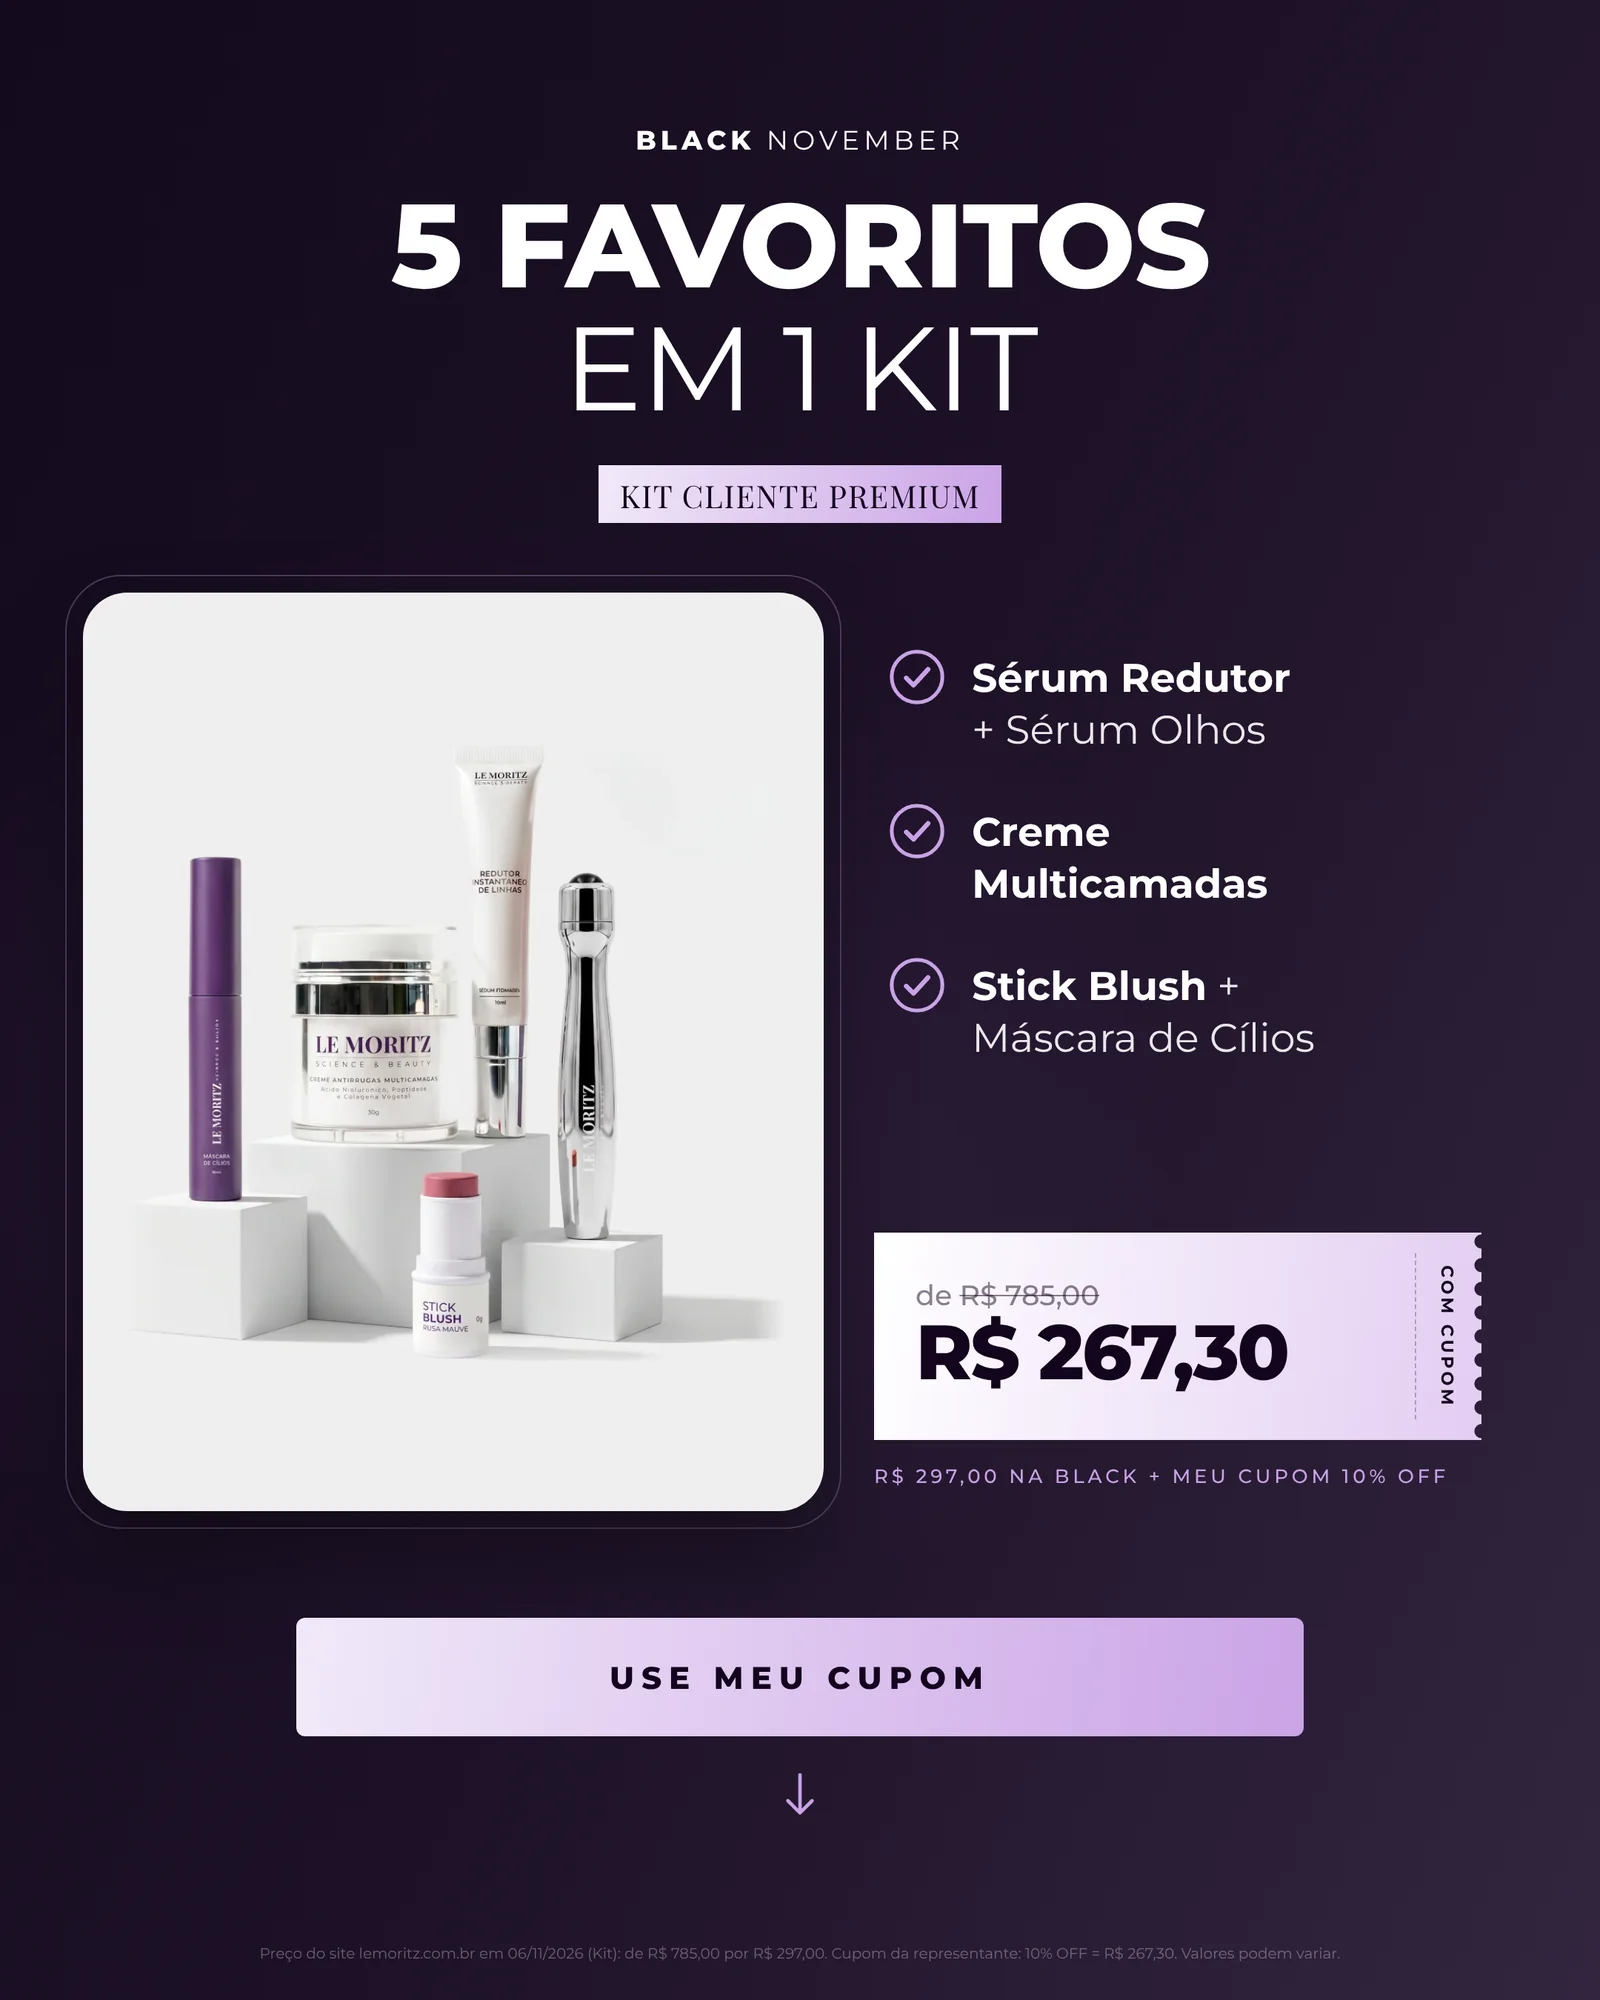
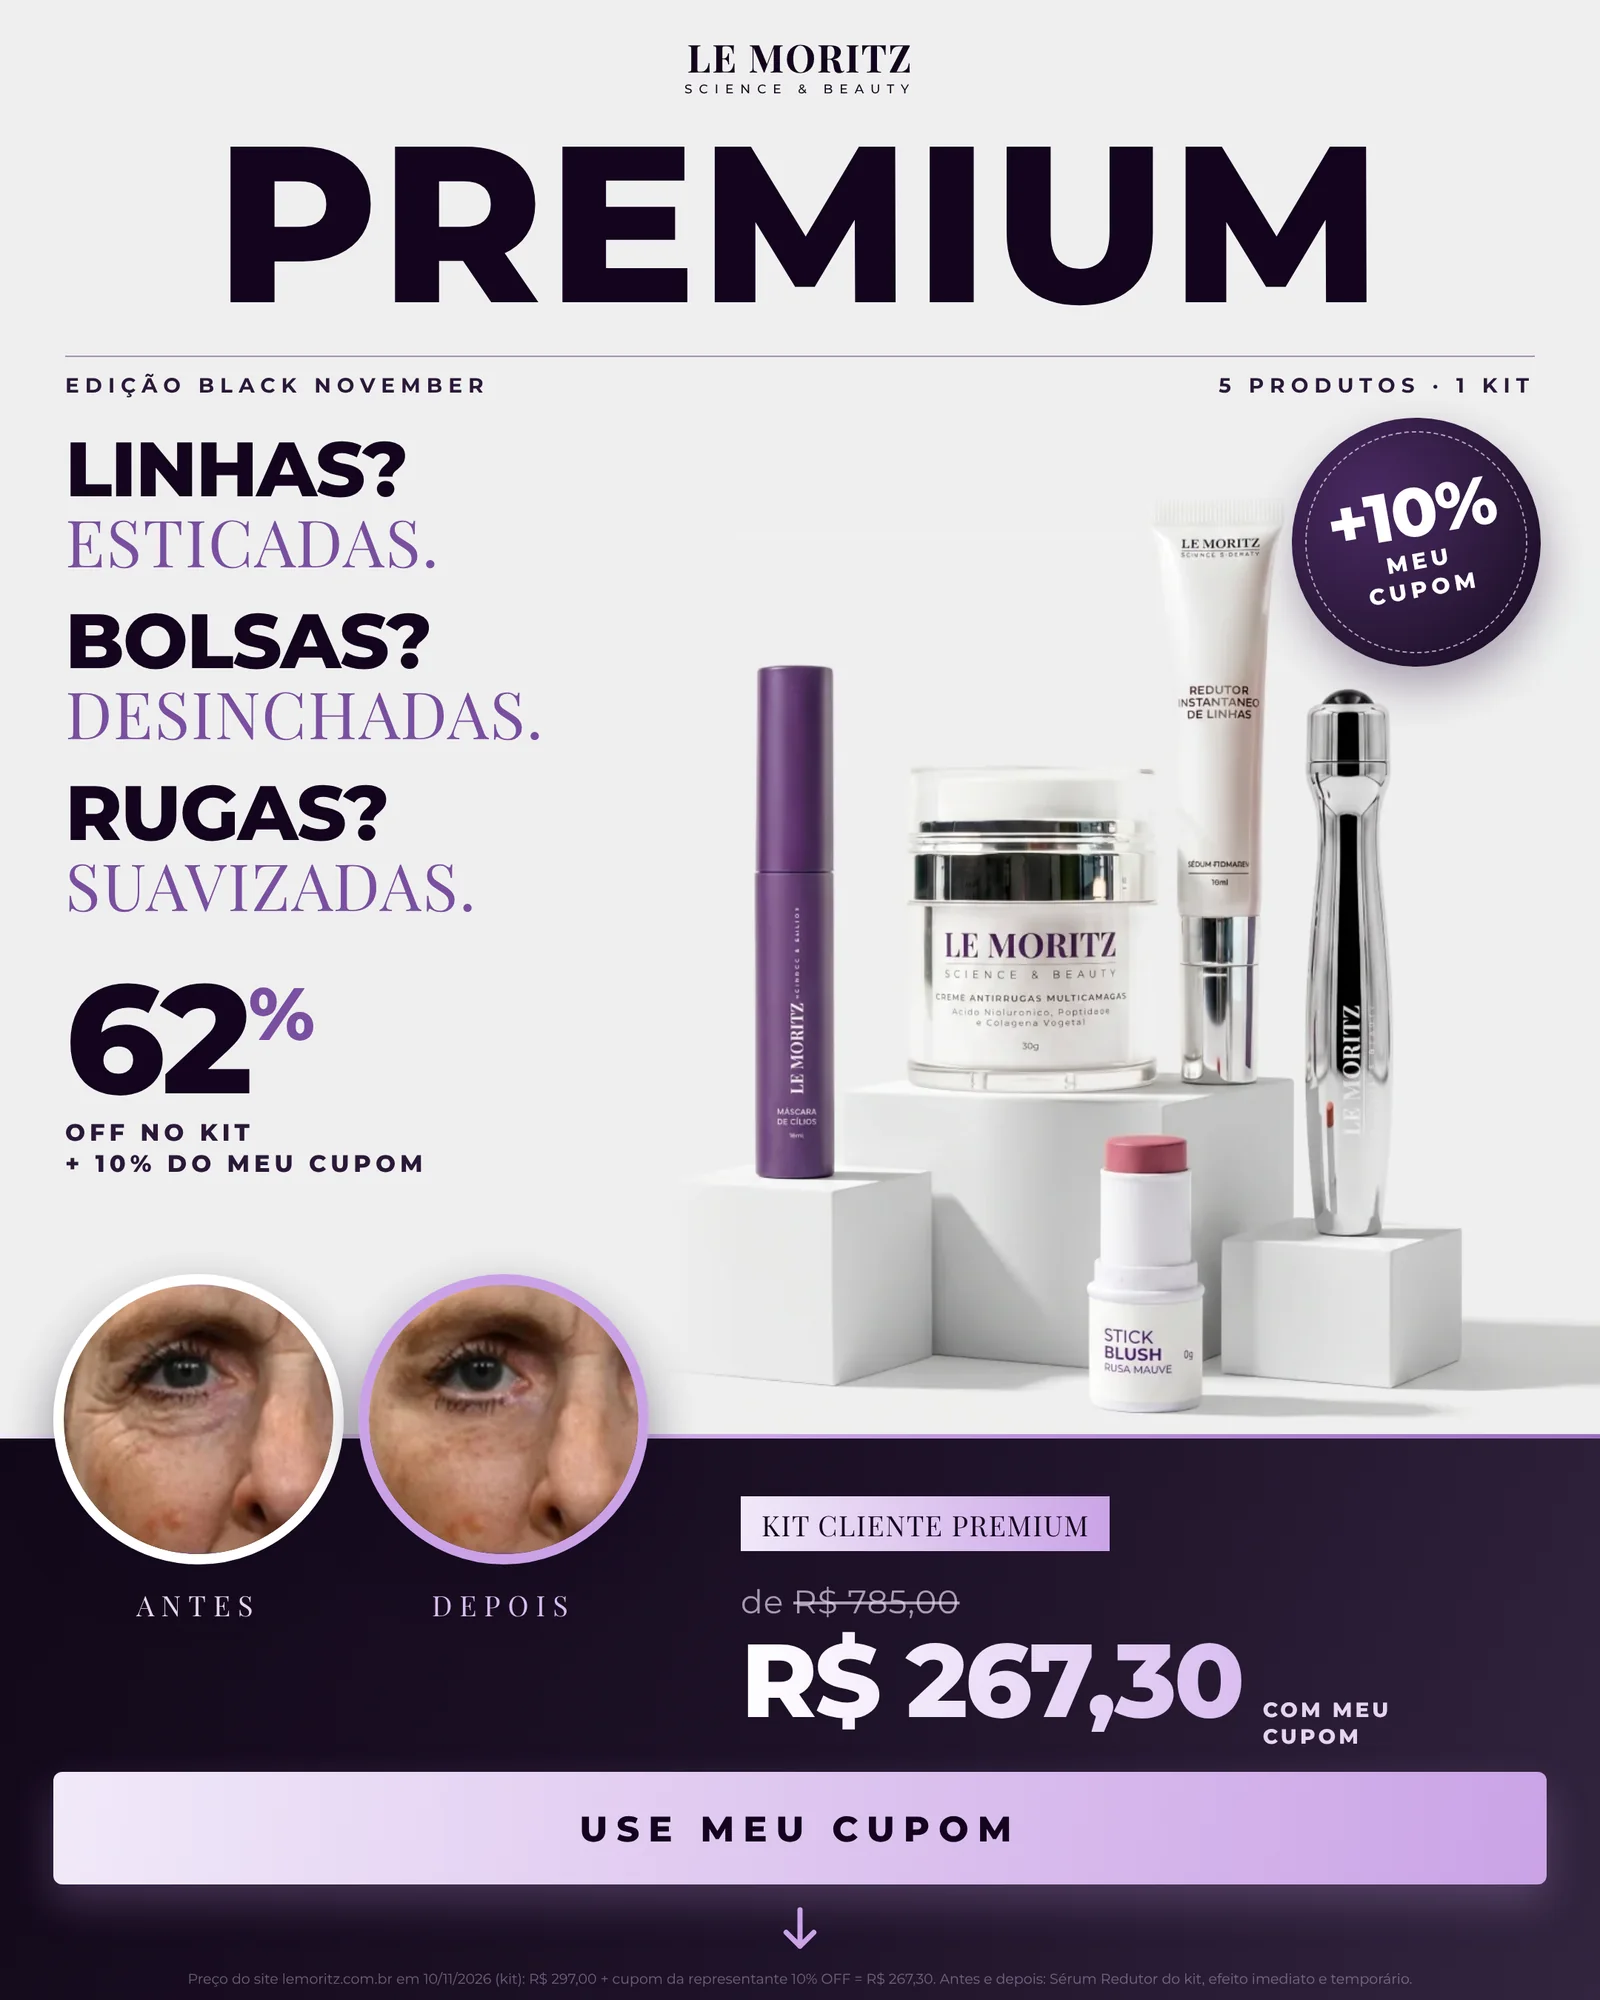
Mês Black: estáticos de kit no estilo revista (11 kits)
Claude-Session: https://claude.ai/code/session_01TW8fczpHEyq63AUCD6efa5

diff --git a/index.html b/index.html
@@ -1259,133 +1259,133 @@ details .corpo{padding:0 0 16px}
       </article>
       <article class="peca vertical" data-cat="kits">
         <div class="th" onclick="abrirLupa(this)">
-          <img src="imagens/black_kit_cliente_premium.webp" alt="Kit Cliente Premium &#8211; 5 favoritos em 1 kit." loading="lazy">
+          <img src="imagens/black_kit_cliente_premium.webp?v=rv" alt="Kit Cliente Premium &#8211; Linhas? Esticadas. Bolsas? Desinchadas." loading="lazy">
           <span class="tipo">Imagem</span>
         </div>
         <div class="c">
           <b>Kit Cliente Premium</b>
-          <span class="d">5 favoritos em 1 kit. De R$785 por R$267,30 com cupom.</span>
-          <a class="cta" href="imagens/black_kit_cliente_premium.webp" download>Baixar a imagem</a>
+          <span class="d">Linhas? Esticadas. Bolsas? Desinchadas. De R$785 por R$267,30 com cupom.</span>
+          <a class="cta" href="imagens/black_kit_cliente_premium.webp?v=rv" download>Baixar a imagem</a>
           <button class="cta vazio tx-bt" onclick="abrirTextos('kit_cliente_premium')">Textos prontos</button>
         </div>
       </article>
       <article class="peca vertical" data-cat="kits">
         <div class="th" onclick="abrirLupa(this)">
-          <img src="imagens/black_kit_lifting_firmeza_olhos.webp" alt="Kit Lifting e Firmeza para Olhos &#8211; Olhar cansado? 3 passos resolvem." loading="lazy">
+          <img src="imagens/black_kit_lifting_firmeza_olhos.webp?v=rv" alt="Kit Lifting e Firmeza para Olhos &#8211; Bolsas? Desinchadas. Linhas? Esticadas." loading="lazy">
           <span class="tipo">Imagem</span>
         </div>
         <div class="c">
           <b>Kit Lifting e Firmeza para Olhos</b>
-          <span class="d">Olhar cansado? 3 passos resolvem. De R$491 por R$222,30 com cupom.</span>
-          <a class="cta" href="imagens/black_kit_lifting_firmeza_olhos.webp" download>Baixar a imagem</a>
+          <span class="d">Bolsas? Desinchadas. Linhas? Esticadas. De R$491 por R$222,30 com cupom.</span>
+          <a class="cta" href="imagens/black_kit_lifting_firmeza_olhos.webp?v=rv" download>Baixar a imagem</a>
           <button class="cta vazio tx-bt" onclick="abrirTextos('kit_lifting_firmeza_olhos')">Textos prontos</button>
         </div>
       </article>
       <article class="peca vertical" data-cat="kits">
         <div class="th" onclick="abrirLupa(this)">
-          <img src="imagens/black_kit_rotina_hidratacao.webp" alt="Kit Rotina de Hidrata&#231;&#227;o &#8211; Sua pele est&#225; com sede?" loading="lazy">
+          <img src="imagens/black_kit_rotina_hidratacao.webp?v=rv" alt="Kit Rotina de Hidrata&#231;&#227;o &#8211; Pele seca? Hidratada. Repuxando? Nunca mais." loading="lazy">
           <span class="tipo">Imagem</span>
         </div>
         <div class="c">
           <b>Kit Rotina de Hidrata&#231;&#227;o</b>
-          <span class="d">Sua pele est&#225; com sede? De R$518 por R$240,30 com cupom.</span>
-          <a class="cta" href="imagens/black_kit_rotina_hidratacao.webp" download>Baixar a imagem</a>
+          <span class="d">Pele seca? Hidratada. Repuxando? Nunca mais. De R$518 por R$240,30 com cupom.</span>
+          <a class="cta" href="imagens/black_kit_rotina_hidratacao.webp?v=rv" download>Baixar a imagem</a>
           <button class="cta vazio tx-bt" onclick="abrirTextos('kit_rotina_hidratacao')">Textos prontos</button>
         </div>
       </article>
       <article class="peca vertical" data-cat="kits">
         <div class="th" onclick="abrirLupa(this)">
-          <img src="imagens/black_kit_limpeza_hidratante.webp" alt="Kit de Limpeza Hidratante &#8211; Limpeza profunda sem repuxar." loading="lazy">
+          <img src="imagens/black_kit_limpeza_hidratante.webp?v=rv" alt="Kit de Limpeza Hidratante &#8211; Repuxa? Nunca mais. Impurezas? Removidas." loading="lazy">
           <span class="tipo">Imagem</span>
         </div>
         <div class="c">
           <b>Kit de Limpeza Hidratante</b>
-          <span class="d">Limpeza profunda sem repuxar. De R$224 por R$141,30 com cupom.</span>
-          <a class="cta" href="imagens/black_kit_limpeza_hidratante.webp" download>Baixar a imagem</a>
+          <span class="d">Repuxa? Nunca mais. Impurezas? Removidas. De R$224 por R$141,30 com cupom.</span>
+          <a class="cta" href="imagens/black_kit_limpeza_hidratante.webp?v=rv" download>Baixar a imagem</a>
           <button class="cta vazio tx-bt" onclick="abrirTextos('kit_limpeza_hidratante')">Textos prontos</button>
         </div>
       </article>
       <article class="peca vertical" data-cat="kits">
         <div class="th" onclick="abrirLupa(this)">
-          <img src="imagens/black_protocolo_rejuvenescimento.webp" alt="Protocolo de Rejuvenescimento &#8211; Apague o cansa&#231;o." loading="lazy">
+          <img src="imagens/black_protocolo_rejuvenescimento.webp?v=rv" alt="Protocolo de Rejuvenescimento &#8211; Linhas? Esticadas. Rugas? Suavizadas." loading="lazy">
           <span class="tipo">Imagem</span>
         </div>
         <div class="c">
           <b>Protocolo de Rejuvenescimento</b>
-          <span class="d">Apague o cansa&#231;o. De R$491 por R$204,30 com cupom.</span>
-          <a class="cta" href="imagens/black_protocolo_rejuvenescimento.webp" download>Baixar a imagem</a>
+          <span class="d">Linhas? Esticadas. Rugas? Suavizadas. De R$491 por R$204,30 com cupom.</span>
+          <a class="cta" href="imagens/black_protocolo_rejuvenescimento.webp?v=rv" download>Baixar a imagem</a>
           <button class="cta vazio tx-bt" onclick="abrirTextos('protocolo_rejuvenescimento')">Textos prontos</button>
         </div>
       </article>
       <article class="peca vertical" data-cat="kits">
         <div class="th" onclick="abrirLupa(this)">
-          <img src="imagens/black_kit_trio_rosto_pes.webp" alt="Kit Trio Rosto &amp; P&#233;s &#8211; Rosto e p&#233;s sem ressecar." loading="lazy">
+          <img src="imagens/black_kit_trio_rosto_pes.webp?v=rv" alt="Kit Trio Rosto &amp; P&#233;s &#8211; Sol? FPS 50. Linhas? Tratadas." loading="lazy">
           <span class="tipo">Imagem</span>
         </div>
         <div class="c">
           <b>Kit Trio Rosto &amp; P&#233;s</b>
-          <span class="d">Rosto e p&#233;s sem ressecar. De R$491 por R$231,30 com cupom.</span>
-          <a class="cta" href="imagens/black_kit_trio_rosto_pes.webp" download>Baixar a imagem</a>
+          <span class="d">Sol? FPS 50. Linhas? Tratadas. De R$491 por R$231,30 com cupom.</span>
+          <a class="cta" href="imagens/black_kit_trio_rosto_pes.webp?v=rv" download>Baixar a imagem</a>
           <button class="cta vazio tx-bt" onclick="abrirTextos('kit_trio_rosto_pes')">Textos prontos</button>
         </div>
       </article>
       <article class="peca vertical" data-cat="kits">
         <div class="th" onclick="abrirLupa(this)">
-          <img src="imagens/black_kit_transformacao_instantanea.webp" alt="Kit Transforma&#231;&#227;o Instant&#226;nea &#8211; Pare&#231;a descansada em minutos." loading="lazy">
+          <img src="imagens/black_kit_transformacao_instantanea.webp?v=rv" alt="Kit Transforma&#231;&#227;o Instant&#226;nea &#8211; Linhas? Esticadas. Cansa&#231;o? Disfar&#231;ado." loading="lazy">
           <span class="tipo">Imagem</span>
         </div>
         <div class="c">
           <b>Kit Transforma&#231;&#227;o Instant&#226;nea</b>
-          <span class="d">Pare&#231;a descansada em minutos. De R$785 por R$267,30 com cupom.</span>
-          <a class="cta" href="imagens/black_kit_transformacao_instantanea.webp" download>Baixar a imagem</a>
+          <span class="d">Linhas? Esticadas. Cansa&#231;o? Disfar&#231;ado. De R$785 por R$267,30 com cupom.</span>
+          <a class="cta" href="imagens/black_kit_transformacao_instantanea.webp?v=rv" download>Baixar a imagem</a>
           <button class="cta vazio tx-bt" onclick="abrirTextos('kit_transformacao_instantanea')">Textos prontos</button>
         </div>
       </article>
       <article class="peca vertical" data-cat="kits">
         <div class="th" onclick="abrirLupa(this)">
-          <img src="imagens/black_kit_make_essencial.webp" alt="Kit Make Essencial &#8211; Make que n&#227;o marca ruga." loading="lazy">
+          <img src="imagens/black_kit_make_essencial.webp?v=rv" alt="Kit Make Essencial &#8211; Blush? Sem craquelar. Contorno? Com o dedo." loading="lazy">
           <span class="tipo">Imagem</span>
         </div>
         <div class="c">
           <b>Kit Make Essencial</b>
-          <span class="d">Make que n&#227;o marca ruga. De R$441 por R$159,30 com cupom.</span>
-          <a class="cta" href="imagens/black_kit_make_essencial.webp" download>Baixar a imagem</a>
+          <span class="d">Blush? Sem craquelar. Contorno? Com o dedo. De R$441 por R$159,30 com cupom.</span>
+          <a class="cta" href="imagens/black_kit_make_essencial.webp?v=rv" download>Baixar a imagem</a>
           <button class="cta vazio tx-bt" onclick="abrirTextos('kit_make_essencial')">Textos prontos</button>
         </div>
       </article>
       <article class="peca vertical" data-cat="kits">
         <div class="th" onclick="abrirLupa(this)">
-          <img src="imagens/black_kit_6_sticks_de_cor.webp" alt="Kit 6 Sticks de Cor &#8211; Sua make inteira em 6 sticks." loading="lazy">
+          <img src="imagens/black_kit_6_sticks_de_cor.webp?v=rv" alt="Kit 6 Sticks de Cor &#8211; Blush? 4 cores. Glow? Sem purpurina." loading="lazy">
           <span class="tipo">Imagem</span>
         </div>
         <div class="c">
           <b>Kit 6 Sticks de Cor</b>
-          <span class="d">Sua make inteira em 6 sticks. De R$882 por R$240,30 com cupom.</span>
-          <a class="cta" href="imagens/black_kit_6_sticks_de_cor.webp" download>Baixar a imagem</a>
+          <span class="d">Blush? 4 cores. Glow? Sem purpurina. De R$882 por R$240,30 com cupom.</span>
+          <a class="cta" href="imagens/black_kit_6_sticks_de_cor.webp?v=rv" download>Baixar a imagem</a>
           <button class="cta vazio tx-bt" onclick="abrirTextos('kit_6_sticks_de_cor')">Textos prontos</button>
         </div>
       </article>
       <article class="peca vertical" data-cat="kits">
         <div class="th" onclick="abrirLupa(this)">
-          <img src="imagens/black_kit_completo_pele_madura.webp" alt="Kit Completo da Pele Madura &#8211; Tudo que a pele madura precisa." loading="lazy">
+          <img src="imagens/black_kit_completo_pele_madura.webp?v=rv" alt="Kit Completo da Pele Madura &#8211; Skincare? Completo. Make? Inclusa." loading="lazy">
           <span class="tipo">Imagem</span>
         </div>
         <div class="c">
           <b>Kit Completo da Pele Madura</b>
-          <span class="d">Tudo que a pele madura precisa. De R$1.694 por R$636,30 com cupom.</span>
-          <a class="cta" href="imagens/black_kit_completo_pele_madura.webp" download>Baixar a imagem</a>
+          <span class="d">Skincare? Completo. Make? Inclusa. De R$1.694 por R$636,30 com cupom.</span>
+          <a class="cta" href="imagens/black_kit_completo_pele_madura.webp?v=rv" download>Baixar a imagem</a>
           <button class="cta vazio tx-bt" onclick="abrirTextos('kit_completo_pele_madura')">Textos prontos</button>
         </div>
       </article>
       <article class="peca vertical" data-cat="kits">
         <div class="th" onclick="abrirLupa(this)">
-          <img src="imagens/black_kit_reposicao_colageno.webp" alt="Kit Reposi&#231;&#227;o de Col&#225;geno &#8211; Col&#225;geno por dentro e por fora." loading="lazy">
+          <img src="imagens/black_kit_reposicao_colageno.webp?v=rv" alt="Kit Reposi&#231;&#227;o de Col&#225;geno &#8211; Dores? Aliviadas. Flacidez? Reduzida." loading="lazy">
           <span class="tipo">Imagem</span>
         </div>
         <div class="c">
           <b>Kit Reposi&#231;&#227;o de Col&#225;geno</b>
-          <span class="d">Col&#225;geno por dentro e por fora. De R$668 por R$285,30 com cupom.</span>
-          <a class="cta" href="imagens/black_kit_reposicao_colageno.webp" download>Baixar a imagem</a>
+          <span class="d">Dores? Aliviadas. Flacidez? Reduzida. De R$668 por R$285,30 com cupom.</span>
+          <a class="cta" href="imagens/black_kit_reposicao_colageno.webp?v=rv" download>Baixar a imagem</a>
           <button class="cta vazio tx-bt" onclick="abrirTextos('kit_reposicao_colageno')">Textos prontos</button>
         </div>
       </article>
